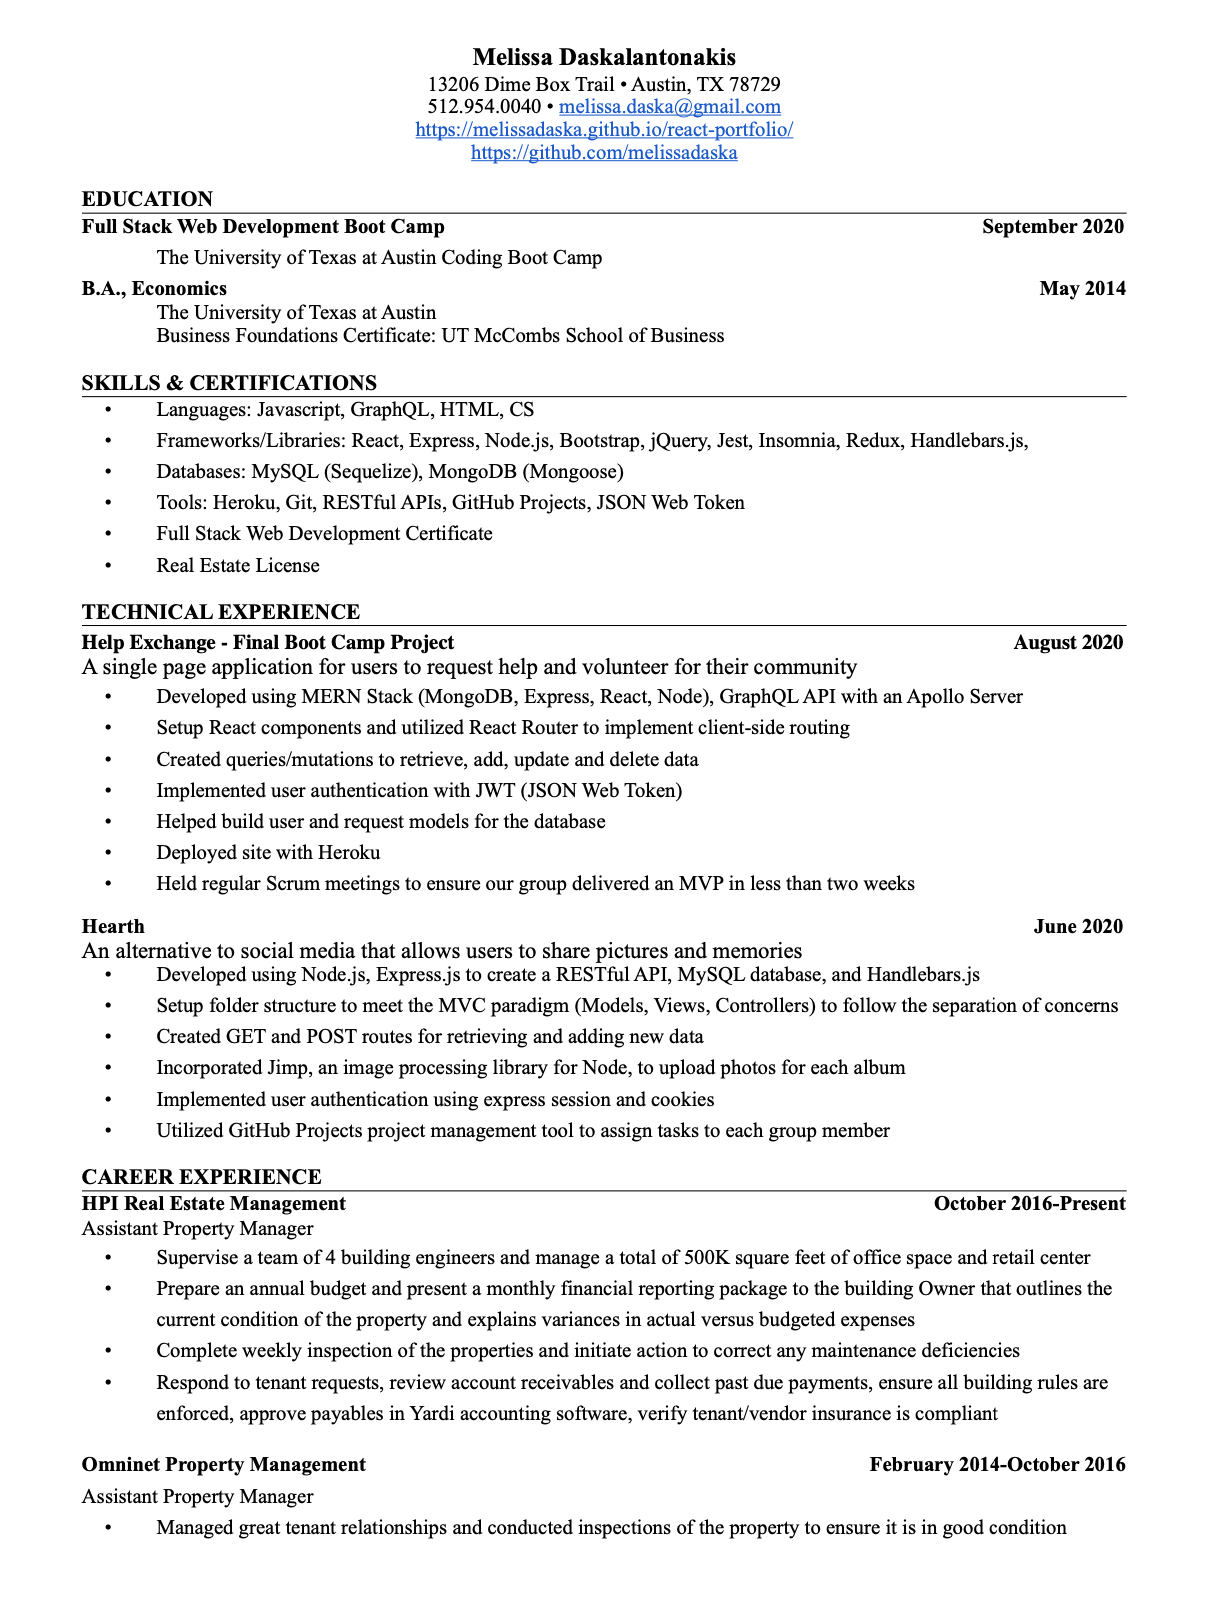
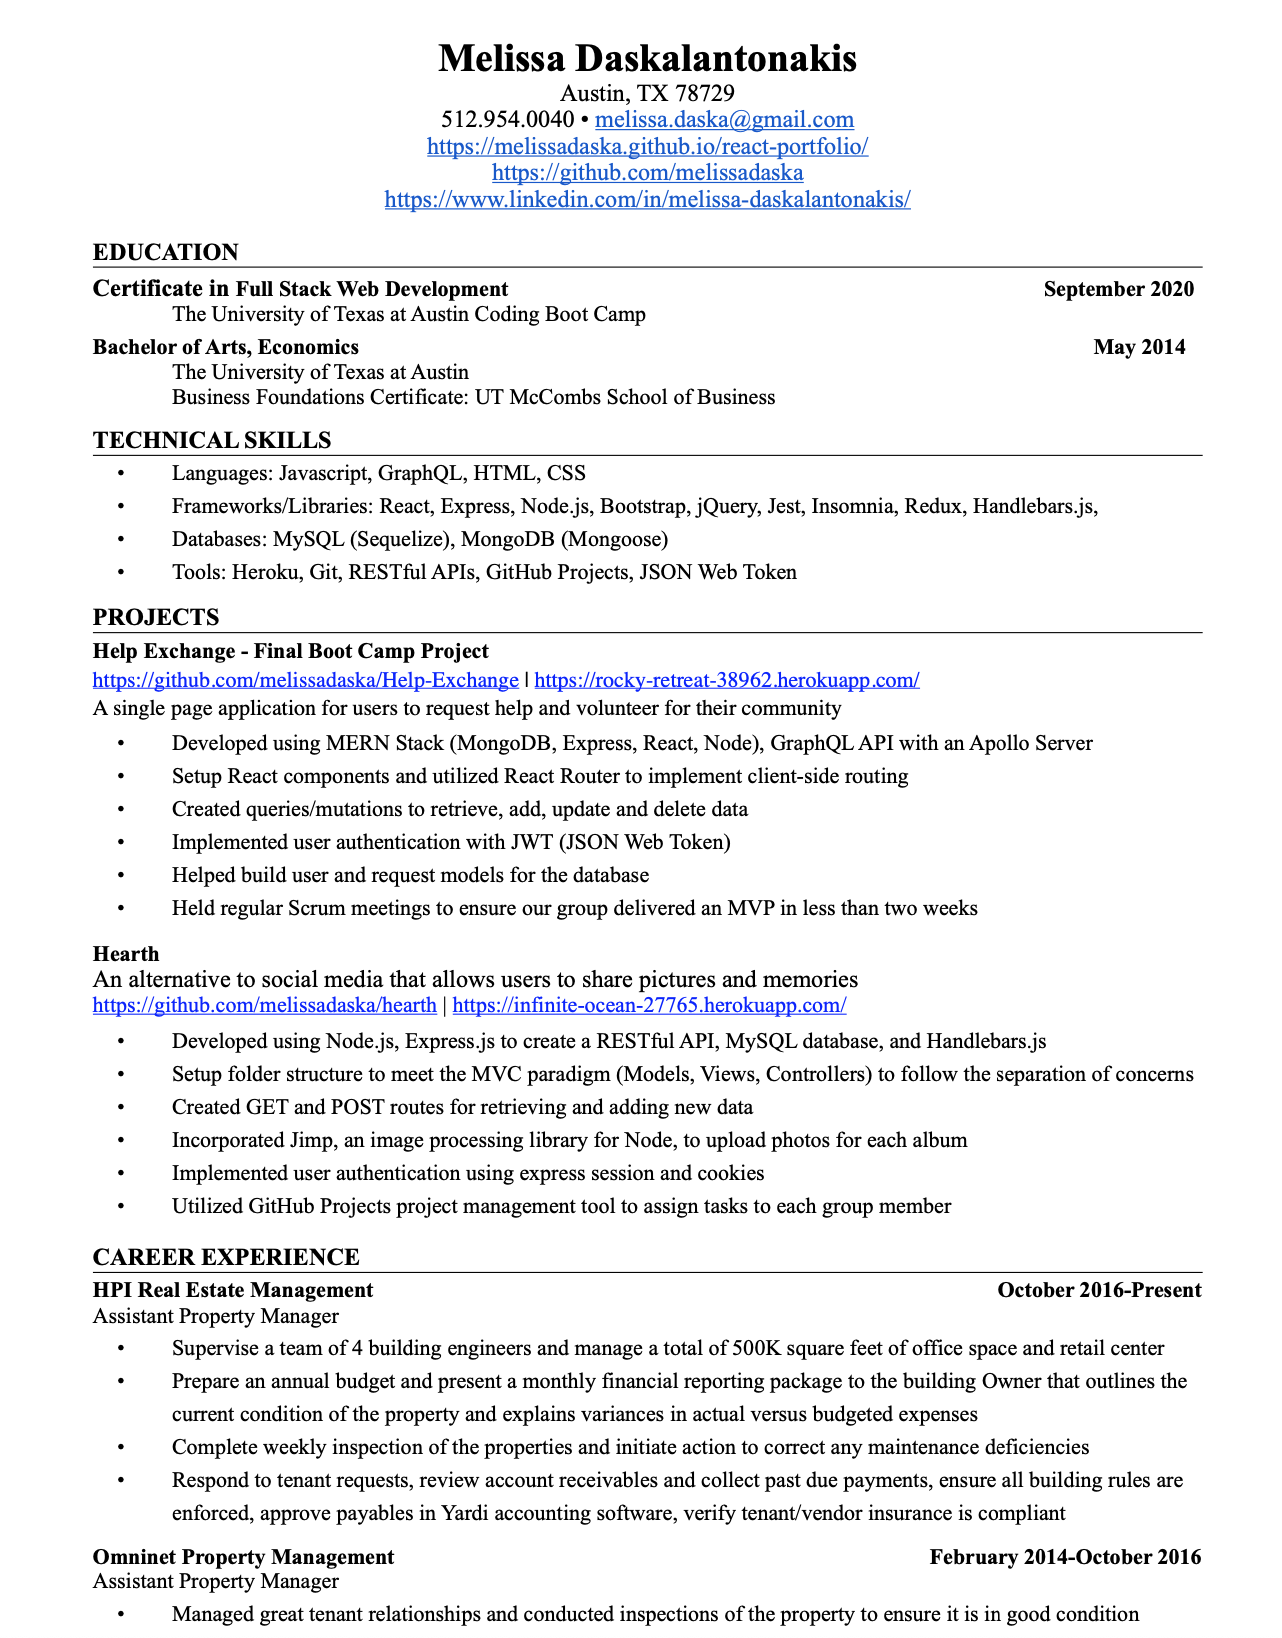
fix resume and about

diff --git a/src/components/About/index.js b/src/components/About/index.js
@@ -11,7 +11,7 @@ class About extends Component {
                     <div className="col-10 section-content">
                         <img className="mt-3 mb-5 me" src={coverImage} alt="Melissa D"/>
                         <p>
-                        My name is Melissa Daskalantonakis and I currently reside in Austin, Texas. I graduated from The University of Texas at Austin in 2014 with a Bachelor of Arts degree in Economics and am currently an Assistant Property Manager for commercial office buildings. I recently decided to pursue web development and have earned a certificate in full stack web development from The University of Texas at Austin with newly developed skills in JavaScript, MongoDB, Express.js, Node.js, React, MySQL, CSS, and HTML. I worked on a team of three to develop a single-page MERN application that allows users to sign-up and request for help within their community or volunteer to help someone. I am very excited to leverage my skills as part of a fast-paced, quality-driven team to build better experiences on the web. I am very interested in a position where I can continue to grow my knowledge and skills working with React.
+                        My name is Melissa Daskalantonakis and I currently reside in Austin, Texas. I graduated from The University of Texas at Austin in 2014 with a Bachelor of Arts degree in Economics and am currently an Assistant Property Manager for commercial office buildings. I have recently earned a certificate in full stack web development from The University of Texas at Austin with newly developed skills in JavaScript, MongoDB, Express.js, Node.js, React, MySQL, CSS, and HTML. I worked on a team of three to develop a single-page MERN application that allows users to sign-up and request for help or volunteer to help within their community. I'm excited to leverage my skills as part of a fast-paced, quality-driven team to build better experiences on the web. I am very passionate about React and would love to find a position where I can continue to grow my knowledge and skills working with React.
                         </p>
                     </div>  
             </div>
